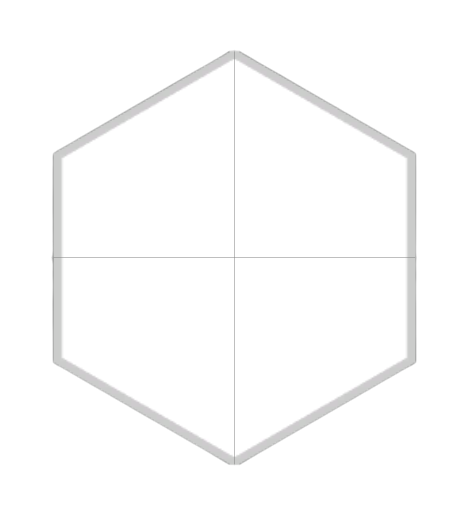
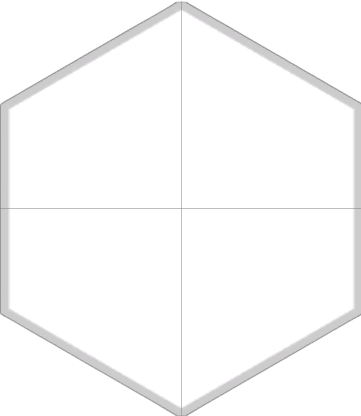
hex grid as entity with children

Changed region(s): [[0.0, 0.0, 1.0, 1.0]]

diff --git a/src/hex_utils.rs b/src/hex_utils.rs
@@ -1,21 +1,32 @@
 use bevy::prelude::*;
 use bevy_inspector_egui::Inspectable;
 use std::cmp::{max,min};
+use std::collections::HashMap;
 
 pub const HEX_INNER_RADIUS: f32 = 40.0;
 pub const HEX_CIRCUMRADIUS: f32 = HEX_INNER_RADIUS * 1.154700538; //sqrt(4/3)
 pub const HEX_SMALL_DIAMETER: f32 = 2.0 * HEX_INNER_RADIUS;
 pub const HEX_LARGE_DIAMETER: f32 = 2.0 * HEX_CIRCUMRADIUS;
 
-pub const HEX_GRID_RADIUS: i32 = 3;
+pub const HEX_GRID_RADIUS: i32 = 5;
 
 pub const HEX_SPRITE_SCALE: f32 = HEX_SMALL_DIAMETER * 0.00275;
 
+
+
+type WorldCoord = (f32, f32);
 
 #[derive(Component, Inspectable, Debug)]
 pub struct HexCoord(i32,i32);
 
 impl HexCoord {
+
+    pub fn from_world(world_coord: WorldCoord) -> HexCoord {
+        let x = (f32::sqrt(3.0)*world_coord.0 - world_coord.1) / 3.0 / HEX_CIRCUMRADIUS;
+        let y = ((2.0/3.0) * world_coord.1) / HEX_CIRCUMRADIUS;
+        return HexCoord(x.round() as i32, y.round() as i32);
+    }
+
     pub fn to_world(&self) -> WorldCoord {
         let x = HEX_CIRCUMRADIUS * f32::sqrt(3.0) * ((self.0 as f32) + (self.1 as f32) / 2.0);
         let y = HEX_CIRCUMRADIUS * (3.0/2.0) * (self.1 as f32);
@@ -24,7 +35,7 @@ impl HexCoord {
 
     // returns all the hex coords that are
     // within radius number of tiles
-    pub fn in_range(&self, radius: i32) -> Vec<HexCoord> {
+    pub fn within_radius(&self, radius: i32) -> Vec<HexCoord> {
         let mut within = Vec::new();
         for x in -radius..radius+1 {
             for y in max(-radius, (-x)-radius)..min(radius,(-x)+radius)+1 {
@@ -35,33 +46,35 @@ impl HexCoord {
     }
 }
 
-type WorldCoord = (f32, f32);
+pub struct HexGridBundle;
 
-// wrong
-pub fn world_to_hex(world_coord: WorldCoord) -> HexCoord {
-    let x = (f32::sqrt(3.0)*world_coord.0 - world_coord.1) / 3.0 / HEX_CIRCUMRADIUS;
-    let y = ((2.0/3.0) * world_coord.1) / HEX_CIRCUMRADIUS;
-    return HexCoord(x.round() as i32, y.round() as i32);
-}
-
-pub struct HexGrid;
-
-impl Plugin for HexGrid {
+impl Plugin for HexGridBundle {
     fn build(&self, app: &mut App) {
         app
-        .add_startup_system(init_grid);
+        .add_startup_system(HexGrid::spawn);
     }
 }
 
+#[derive(Component, Inspectable)]
+pub struct HexGrid;
 
-fn init_grid(
-    mut commands: Commands,
-    assets: Res<AssetServer>
-) {
-    for hex_coord in HexCoord(0,0).in_range(HEX_GRID_RADIUS).into_iter() {
-        HexTile::spawn_at(hex_coord, &mut commands, &assets)
+ impl HexGrid {
+    fn spawn(
+        mut commands: Commands,
+        assets: Res<AssetServer>
+    ) {
+        let mut tiles = Vec::new();
+        for hex_coord in HexCoord(0,0).within_radius(HEX_GRID_RADIUS).into_iter() {
+            let tile = HexTile::spawn_at(hex_coord, &mut commands, &assets);
+            tiles.push(tile);
+        }
+        commands
+        .spawn_bundle(SpatialBundle{..default()})
+        .insert(Name::new("HexGrid"))
+        .insert(HexGrid)
+        .push_children(&tiles);
     }
-}
+ }
 
 
 #[derive(Component, Inspectable)]
@@ -72,16 +85,17 @@ impl HexTile {
         hex_coord: HexCoord,
         commands: &mut Commands,
         assets: &Res<AssetServer>
-    ) {
+    ) -> Entity {
         let (x, y) = hex_coord.to_world();
         commands.spawn_bundle(SpriteBundle {
-            texture: assets.load("hex_cropped.png"),
+            texture: assets.load("hex.png"),
             transform: Transform::from_xyz(x, y, 0.0)
                         .with_scale(Vec3::new(HEX_SPRITE_SCALE, HEX_SPRITE_SCALE, 1.0)),
             ..default()
         })
         .insert(Name::new("HexTile"))
         .insert(hex_coord)
-        .insert(HexTile);
+        .insert(HexTile)
+        .id()
     }
 }

diff --git a/src/main.rs b/src/main.rs
@@ -1,7 +1,7 @@
 mod hex_utils;
 mod debug;
 
-use hex_utils::HexGrid;
+use hex_utils::HexGridBundle;
 use debug::{DebugPlugin};
 
 use bevy::prelude::*;
@@ -9,7 +9,7 @@ use bevy::prelude::*;
 fn main() {
     App::new()
     .add_plugins(DefaultPlugins)
-    .add_plugin(HexGrid)
+    .add_plugin(HexGridBundle)
     .add_plugin(DebugPlugin)
     .add_startup_system_to_stage(StartupStage::PreStartup, spawn_camera)
     .run();
